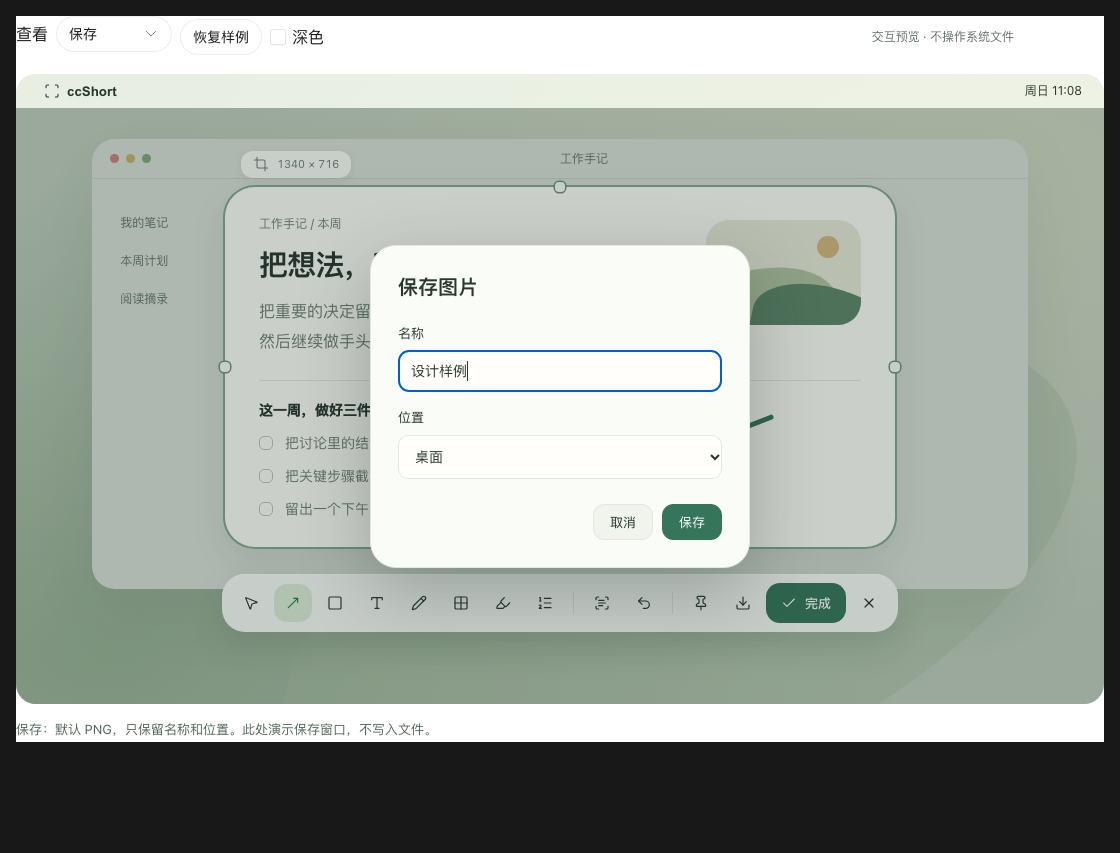
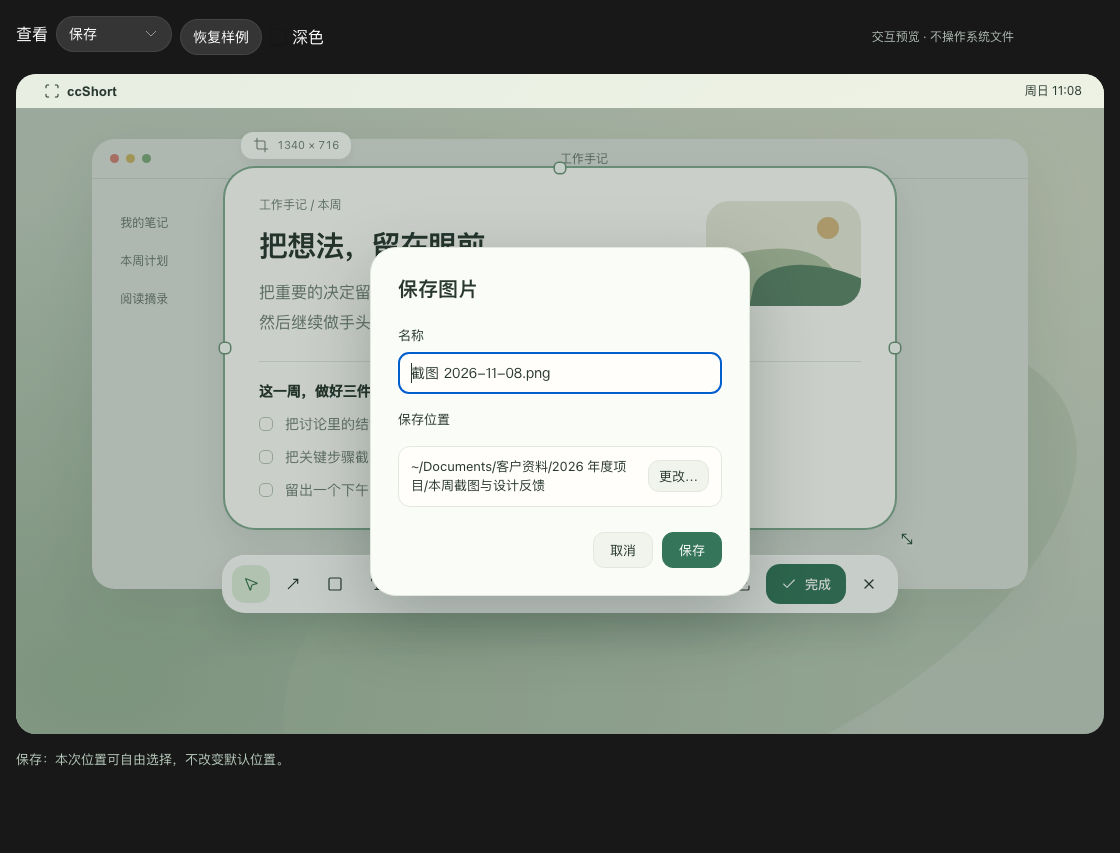
取消保存位置限制并区分本次与默认目录

diff --git a/docs/ui-v5/ccShort-完整交互预览.html b/docs/ui-v5/ccShort-完整交互预览.html
@@ -1968,6 +1968,10 @@ html&gt;body{padding:0}&lt;/style&gt;
 #ccshort-design .desktop:not([data-mode=&quot;edit&quot;]) .annotation-options{display:none}
 #ccshort-design .arrow-example{display:block;width:44px;height:28px}
 #ccshort-design .arrow-example svg{display:block;width:100%;height:100%}
+#ccshort-design .location-field{display:flex;align-items:center;gap:12px;padding:10px 12px;border:1px solid var(--hair);border-radius:12px;background:light-dark(#fffefb,#1e2c24)}
+#ccshort-design .location-field output{flex:1;min-width:0;overflow-wrap:anywhere;font-size:13px;color:var(--ink)}
+#ccshort-design .location-field button{flex:none;padding:6px 10px}
+#ccshort-design .folder-error{font-size:13px;color:light-dark(#a8362b,#ffb4a9);margin:8px 0}
 &lt;/style&gt;
 &lt;div id=&quot;ccshort-design&quot;&gt;
   &lt;div class=&quot;review-controls&quot; aria-label=&quot;设计稿状态&quot;&gt;
@@ -2022,7 +2026,7 @@ html&gt;body{padding:0}&lt;/style&gt;
     &lt;/div&gt;
     &lt;div class=&quot;pinbar&quot; hidden&gt;&lt;button data-action=&quot;edit&quot;&gt;&lt;i data-lucide=&quot;pencil&quot; aria-hidden=&quot;true&quot;&gt;&lt;/i&gt; 编辑&lt;/button&gt;&lt;button data-action=&quot;save&quot;&gt;&lt;i data-lucide=&quot;download&quot; aria-hidden=&quot;true&quot;&gt;&lt;/i&gt; 保存&lt;/button&gt;&lt;button data-action=&quot;close&quot; aria-label=&quot;关闭钉图&quot;&gt;&lt;i data-lucide=&quot;x&quot; aria-hidden=&quot;true&quot;&gt;&lt;/i&gt;&lt;/button&gt;&lt;/div&gt;
     &lt;div class=&quot;appmenu&quot; hidden&gt;&lt;button data-capture=&quot;区域截图&quot;&gt;区域截图 &lt;span&gt;⌃⌥S&lt;/span&gt;&lt;/button&gt;&lt;button data-capture=&quot;窗口截图&quot;&gt;窗口截图&lt;/button&gt;&lt;button data-capture=&quot;当前屏幕&quot;&gt;当前屏幕&lt;/button&gt;&lt;hr&gt;&lt;button data-action=&quot;settings&quot;&gt;设置…&lt;/button&gt;&lt;hr&gt;&lt;button data-action=&quot;quit&quot;&gt;退出 ccShort&lt;/button&gt;&lt;/div&gt;
-    &lt;div class=&quot;sheet-shade&quot; hidden&gt;&lt;section class=&quot;sheet&quot; role=&quot;dialog&quot; aria-modal=&quot;true&quot; aria-label=&quot;保存图片&quot;&gt;&lt;form data-save-form hidden&gt;&lt;h3&gt;保存图片&lt;/h3&gt;&lt;label&gt;名称&lt;input name=&quot;filename&quot; value=&quot;截图 2026-11-08.png&quot; required maxlength=&quot;80&quot;&gt;&lt;/label&gt;&lt;label&gt;位置&lt;select name=&quot;folder&quot;&gt;&lt;option&gt;桌面&lt;/option&gt;&lt;option&gt;下载&lt;/option&gt;&lt;option&gt;文稿&lt;/option&gt;&lt;/select&gt;&lt;/label&gt;&lt;div class=&quot;sheet-actions&quot;&gt;&lt;button type=&quot;button&quot; data-cancel&gt;取消&lt;/button&gt;&lt;button class=&quot;primary&quot; type=&quot;button&quot; data-save-confirm&gt;保存&lt;/button&gt;&lt;/div&gt;&lt;/form&gt;&lt;div data-settings-panel hidden&gt;&lt;h3&gt;设置&lt;/h3&gt;&lt;div class=&quot;setting-row&quot;&gt;&lt;span&gt;截图快捷键&lt;/span&gt;&lt;button data-shortcut&gt;⌃⌥S&lt;/button&gt;&lt;/div&gt;&lt;div class=&quot;setting-row&quot;&gt;&lt;label for=&quot;ccshort-folder&quot;&gt;默认保存位置&lt;/label&gt;&lt;select id=&quot;ccshort-folder&quot;&gt;&lt;option&gt;桌面&lt;/option&gt;&lt;option&gt;下载&lt;/option&gt;&lt;option&gt;文稿&lt;/option&gt;&lt;/select&gt;&lt;/div&gt;&lt;div class=&quot;sheet-actions&quot;&gt;&lt;button class=&quot;primary&quot; data-cancel&gt;完成&lt;/button&gt;&lt;/div&gt;&lt;/div&gt;&lt;/section&gt;&lt;/div&gt;
+    &lt;div class=&quot;sheet-shade&quot; hidden&gt;&lt;section class=&quot;sheet&quot; role=&quot;dialog&quot; aria-modal=&quot;true&quot; aria-label=&quot;保存图片&quot;&gt;&lt;form data-save-form hidden&gt;&lt;h3&gt;保存图片&lt;/h3&gt;&lt;label&gt;名称&lt;input name=&quot;filename&quot; value=&quot;截图 2026-11-08.png&quot; required maxlength=&quot;80&quot;&gt;&lt;/label&gt;&lt;label&gt;保存位置&lt;/label&gt;&lt;div class=&quot;location-field&quot;&gt;&lt;output data-save-folder aria-label=&quot;本次保存位置&quot;&gt;~/Desktop&lt;/output&gt;&lt;button type=&quot;button&quot; data-choose-folder=&quot;save&quot;&gt;更改…&lt;/button&gt;&lt;/div&gt;&lt;div class=&quot;sheet-actions&quot;&gt;&lt;button type=&quot;button&quot; data-cancel&gt;取消&lt;/button&gt;&lt;button class=&quot;primary&quot; type=&quot;button&quot; data-save-confirm&gt;保存&lt;/button&gt;&lt;/div&gt;&lt;/form&gt;&lt;div data-settings-panel hidden&gt;&lt;h3&gt;设置&lt;/h3&gt;&lt;div class=&quot;setting-row&quot;&gt;&lt;span&gt;截图快捷键&lt;/span&gt;&lt;button data-shortcut&gt;⌃⌥S&lt;/button&gt;&lt;/div&gt;&lt;div class=&quot;location-setting&quot;&gt;&lt;label&gt;默认保存位置&lt;/label&gt;&lt;div class=&quot;location-field&quot;&gt;&lt;output data-default-folder aria-label=&quot;默认保存位置&quot;&gt;~/Desktop&lt;/output&gt;&lt;button type=&quot;button&quot; data-choose-folder=&quot;settings&quot;&gt;更改…&lt;/button&gt;&lt;/div&gt;&lt;/div&gt;&lt;div class=&quot;sheet-actions&quot;&gt;&lt;button class=&quot;primary&quot; data-cancel&gt;完成&lt;/button&gt;&lt;/div&gt;&lt;/div&gt;&lt;div data-folder-panel hidden&gt;&lt;h3&gt;选择文件夹&lt;/h3&gt;&lt;label for=&quot;ccshort-folder-path&quot;&gt;文件夹路径&lt;/label&gt;&lt;input id=&quot;ccshort-folder-path&quot; placeholder=&quot;~/Documents/项目资料&quot; required aria-describedby=&quot;ccshort-folder-error&quot;&gt;&lt;p id=&quot;ccshort-folder-error&quot; class=&quot;folder-error&quot; role=&quot;alert&quot; hidden&gt;请输入文件夹路径&lt;/p&gt;&lt;div class=&quot;sheet-actions&quot;&gt;&lt;button type=&quot;button&quot; data-folder-cancel&gt;取消&lt;/button&gt;&lt;button type=&quot;button&quot; class=&quot;primary&quot; data-folder-confirm&gt;选择&lt;/button&gt;&lt;/div&gt;&lt;/div&gt;&lt;/section&gt;&lt;/div&gt;
     &lt;div class=&quot;result&quot; hidden&gt;&lt;i data-lucide=&quot;check&quot; aria-hidden=&quot;true&quot;&gt;&lt;/i&gt;&lt;h3&gt;已完成&lt;/h3&gt;&lt;p data-result&gt;&lt;/p&gt;&lt;blockquote hidden&gt;&lt;/blockquote&gt;&lt;button data-new&gt;再截一张&lt;/button&gt;&lt;/div&gt;
     &lt;div class=&quot;context-actions&quot; hidden aria-label=&quot;文字操作&quot;&gt;&lt;button data-copy&gt;复制 &lt;span&gt;⌘C&lt;/span&gt;&lt;/button&gt;&lt;button data-select-all&gt;全选 &lt;span&gt;⌘A&lt;/span&gt;&lt;/button&gt;&lt;/div&gt;
     &lt;div class=&quot;demo-toast&quot; role=&quot;status&quot;&gt;&lt;/div&gt;
@@ -2033,6 +2037,7 @@ html&gt;body{padding:0}&lt;/style&gt;
 (()=&gt;{
 const root=document.getElementById(&#x27;ccshort-design&#x27;),stage=root.querySelector(&#x27;.desktop&#x27;),svg=root.querySelector(&#x27;.drawing&#x27;),note=root.querySelector(&#x27;.note&#x27;),entry=root.querySelector(&#x27;.text-entry&#x27;),context=root.querySelector(&#x27;.context-actions&#x27;),appmenu=root.querySelector(&#x27;.appmenu&#x27;),shade=root.querySelector(&#x27;.sheet-shade&#x27;),finish=root.querySelector(&#x27;[data-finish]&#x27;),jump=root.querySelector(&#x27;[data-jump]&#x27;);
 const ns=&#x27;http://www.w3.org/2000/svg&#x27;;
+let defaultFolder=&#x27;~/Desktop&#x27;,saveFolder=defaultFolder,folderTarget=&#x27;save&#x27;;
 const presets={arrow:{color:&#x27;#D65F46&#x27;,shape:&#x27;curved&#x27;},rect:{color:&#x27;#D65F46&#x27;}};
 const options=root.querySelector(&#x27;.annotation-options&#x27;);
 const names={capture:&#x27;框选&#x27;,arrow:&#x27;箭头&#x27;,rect:&#x27;画框&#x27;,label:&#x27;文字&#x27;,pen:&#x27;画笔&#x27;,mask:&#x27;遮挡&#x27;,highlight:&#x27;高亮&#x27;,number:&#x27;序号&#x27;,select:&#x27;选字&#x27;};
@@ -2079,8 +2084,8 @@ function selectAll(){const range=document.createRange();range.selectNodeContents
 function demo(kind){const a={x:440,y:219},b={x:391,y:290};if(kind===&#x27;arrow&#x27;)return[{kind,a:{x:546,y:230},b}];if(kind===&#x27;rect&#x27;||kind===&#x27;mask&#x27;||kind===&#x27;highlight&#x27;)return[{kind,a:{x:53,y:274},b:{x:382,y:305}}];if(kind===&#x27;pen&#x27;)return[{kind,points:[{x:62,y:302},{x:90,y:308},{x:120,y:301},{x:151,y:307},{x:185,y:302},{x:218,y:307},{x:253,y:300},{x:285,y:305},{x:327,y:300}]}];if(kind===&#x27;number&#x27;)return[{kind,a:{x:19,y:257},number:1},{kind,a:{x:19,y:289},number:2},{kind,a:{x:19,y:322},number:3}];return[];}
 function normal(){clearTimeout(timer);root.querySelector(&#x27;.demo-toast&#x27;).textContent=&#x27;&#x27;;stage.dataset.mode=&#x27;edit&#x27;;root.querySelector(&#x27;.pinbar&#x27;).hidden=true;root.querySelector(&#x27;.result&#x27;).hidden=true;shade.hidden=true;appmenu.hidden=true;context.hidden=true;}
 function choose(name){commitText();normal();tool=name;stage.dataset.tool=tool;clearSelection();jump.value=tool;root.querySelectorAll(&#x27;[data-tool]&#x27;).forEach(b=&gt;{const on=b.dataset.tool===tool;b.classList.toggle(&#x27;active&#x27;,on);b.setAttribute(&#x27;aria-pressed&#x27;,String(on));});if(sample){marks=demo(tool).map(withStyle);history=[];redo=[];}syncOptions();paint();setHint(hints[tool]);if(tool===&#x27;label&#x27;)openText({x:407,y:218});if(tool===&#x27;select&#x27;){const range=document.createRange();range.selectNodeContents(root.querySelector(&#x27;.intro&#x27;));const sel=getSelection();sel.removeAllRanges();sel.addRange(range);selected=root.querySelector(&#x27;.intro&#x27;).innerText.trim();syncFinish();}}
-function showSheet(which){clearTimeout(timer);root.querySelector(&#x27;.demo-toast&#x27;).textContent=&#x27;&#x27;;commitText();context.hidden=true;appmenu.hidden=true;lastFocus=document.activeElement;shade.hidden=false;root.querySelector(&#x27;[data-save-form]&#x27;).hidden=which!==&#x27;save&#x27;;root.querySelector(&#x27;[data-settings-panel]&#x27;).hidden=which!==&#x27;settings&#x27;;root.querySelector(&#x27;.sheet&#x27;).setAttribute(&#x27;aria-label&#x27;,which===&#x27;save&#x27;?&#x27;保存图片&#x27;:&#x27;设置&#x27;);jump.value=which;setHint(which===&#x27;save&#x27;?&#x27;保存：默认 PNG，只保留名称和位置。此处演示保存窗口，不写入文件。&#x27;:&#x27;设置：仅保留截图快捷键和默认保存位置。此处修改只作用于预览。&#x27;);requestAnimationFrame(()=&gt;shade.querySelector(which===&#x27;save&#x27;?&#x27;input&#x27;:&#x27;button&#x27;).focus());}
-function closeSheet(){shade.hidden=true;recording=false;root.querySelector(&#x27;[data-shortcut]&#x27;).textContent=root.dataset.shortcut||&#x27;⌃⌥S&#x27;;lastFocus?.focus();}
+function showSheet(which){root.querySelector(&#x27;[data-folder-panel]&#x27;).hidden=true;if(which===&#x27;save&#x27;)saveFolder=defaultFolder;renderFolders();clearTimeout(timer);root.querySelector(&#x27;.demo-toast&#x27;).textContent=&#x27;&#x27;;commitText();context.hidden=true;appmenu.hidden=true;lastFocus=document.activeElement;shade.hidden=false;root.querySelector(&#x27;[data-save-form]&#x27;).hidden=which!==&#x27;save&#x27;;root.querySelector(&#x27;[data-settings-panel]&#x27;).hidden=which!==&#x27;settings&#x27;;root.querySelector(&#x27;.sheet&#x27;).setAttribute(&#x27;aria-label&#x27;,which===&#x27;save&#x27;?&#x27;保存图片&#x27;:&#x27;设置&#x27;);jump.value=which;setHint(which===&#x27;save&#x27;?&#x27;保存：位置可自由选择；本次更改不修改默认位置。此处仅演示，不写入文件。&#x27;:&#x27;设置：仅保留截图快捷键和默认保存位置。此处修改只作用于预览。&#x27;);requestAnimationFrame(()=&gt;shade.querySelector(which===&#x27;save&#x27;?&#x27;[data-save-form] input&#x27;:&#x27;[data-settings-panel] button&#x27;).focus());}
+function closeSheet(){if(!root.querySelector(&#x27;[data-folder-panel]&#x27;).hidden){returnFromFolder();return;}shade.hidden=true;recording=false;root.querySelector(&#x27;[data-shortcut]&#x27;).textContent=root.dataset.shortcut||&#x27;⌃⌥S&#x27;;lastFocus?.focus();}
 function pin(){commitText();normal();clearSelection();stage.dataset.mode=&#x27;pin&#x27;;root.querySelector(&#x27;.pinbar&#x27;).hidden=false;jump.value=&#x27;pin&#x27;;setHint(&#x27;钉图：图片独立悬浮，只保留编辑、保存和关闭。&#x27;);}
 function complete(cancel=false){commitText();context.hidden=true;appmenu.hidden=true;shade.hidden=true;stage.dataset.mode=&#x27;done&#x27;;root.querySelector(&#x27;.pinbar&#x27;).hidden=true;const result=root.querySelector(&#x27;.result&#x27;);result.hidden=false;result.querySelector(&#x27;h3&#x27;).textContent=cancel?&#x27;已取消&#x27;:&#x27;已完成&#x27;;root.querySelector(&#x27;[data-result]&#x27;).textContent=cancel?&#x27;本次截图已收起&#x27;:selected?&#x27;已复制所选文字&#x27;:&#x27;已复制图片&#x27;;const quote=result.querySelector(&#x27;blockquote&#x27;);quote.hidden=cancel||!selected;quote.textContent=selected;jump.value=&#x27;done&#x27;;setHint(cancel?&#x27;结束状态演示：取消不复制。&#x27;:&#x27;完成状态演示：只复制当前目标，然后结束；预览不写入系统剪贴板。&#x27;);}
 function copy(){toast(&#x27;演示：已复制&#x27;+(selected?&#x27;所选文字&#x27;:&#x27;图片&#x27;)+&#x27;，继续编辑&#x27;);context.hidden=true;}
@@ -2093,11 +2098,17 @@ root.querySelector(&#x27;[data-appmenu]&#x27;).addEventListener(&#x27;click&#x27
 root.querySelectorAll(&#x27;[data-capture]&#x27;).forEach(b=&gt;b.addEventListener(&#x27;click&#x27;,()=&gt;{reset();toast(&#x27;演示：&#x27;+b.dataset.capture+&#x27;，使用当前样例&#x27;);}));
 jump.addEventListener(&#x27;change&#x27;,()=&gt;{const v=jump.value;if(names[v]){entry.hidden=true;marks=[];history=[];redo=[];sample=true;choose(v);}else if(v===&#x27;pin&#x27;)pin();else if(v===&#x27;done&#x27;)complete();else if(v===&#x27;appmenu&#x27;)root.querySelector(&#x27;[data-appmenu]&#x27;).click();else showSheet(v);});
 root.querySelectorAll(&#x27;[data-cancel]&#x27;).forEach(b=&gt;b.addEventListener(&#x27;click&#x27;,closeSheet));
-function savePreview(){const form=root.querySelector(&#x27;[data-save-form]&#x27;);if(!form.reportValidity())return;const data=new FormData(form);let name=String(data.get(&#x27;filename&#x27;)).trim();if(!name){form.elements.filename.focus();return;}if(!name.toLowerCase().endsWith(&#x27;.png&#x27;))name+=&#x27;.png&#x27;;const folder=String(data.get(&#x27;folder&#x27;));closeSheet();toast(&#x27;演示：保存到&#x27;+folder+&#x27; / &#x27;+name);}
+function savePreview(){const form=root.querySelector(&#x27;[data-save-form]&#x27;);if(!form.reportValidity())return;const data=new FormData(form);let name=String(data.get(&#x27;filename&#x27;)).trim();if(!name){form.elements.filename.focus();return;}if(!name.toLowerCase().endsWith(&#x27;.png&#x27;))name+=&#x27;.png&#x27;;const folder=saveFolder;closeSheet();toast(&#x27;演示：保存到&#x27;+folder+&#x27; / &#x27;+name);}
 root.querySelector(&#x27;[data-save-confirm]&#x27;).addEventListener(&#x27;click&#x27;,savePreview);
 root.querySelector(&#x27;[data-save-form]&#x27;).addEventListener(&#x27;submit&#x27;,e=&gt;{e.preventDefault();savePreview();});
-root.querySelector(&#x27;[data-save-form]&#x27;).addEventListener(&#x27;keydown&#x27;,e=&gt;{if(e.key===&#x27;Enter&#x27;){e.preventDefault();e.stopPropagation();savePreview();}});
-root.querySelector(&#x27;#ccshort-folder&#x27;).addEventListener(&#x27;change&#x27;,e=&gt;root.querySelector(&#x27;[name=&quot;folder&quot;]&#x27;).value=e.target.value);
+root.querySelector(&#x27;[data-save-form]&#x27;).addEventListener(&#x27;keydown&#x27;,e=&gt;{if(e.key===&#x27;Enter&#x27;&amp;&amp;e.target.matches(&#x27;input[name=&quot;filename&quot;]&#x27;)){e.preventDefault();e.stopPropagation();savePreview();}});
+function renderFolders(){root.querySelector(&#x27;[data-save-folder]&#x27;).textContent=saveFolder;root.querySelector(&#x27;[data-default-folder]&#x27;).textContent=defaultFolder;}
+function returnFromFolder(){root.querySelector(&#x27;[data-folder-panel]&#x27;).hidden=true;root.querySelector(&#x27;[data-save-form]&#x27;).hidden=folderTarget!==&#x27;save&#x27;;root.querySelector(&#x27;[data-settings-panel]&#x27;).hidden=folderTarget!==&#x27;settings&#x27;;root.querySelector(&#x27;.sheet&#x27;).setAttribute(&#x27;aria-label&#x27;,folderTarget===&#x27;save&#x27;?&#x27;保存图片&#x27;:&#x27;设置&#x27;);setHint(folderTarget===&#x27;save&#x27;?&#x27;保存：本次位置可自由选择，不改变默认位置。&#x27;:&#x27;设置：以后保存时从这里选定的默认位置开始。&#x27;);root.querySelector(&#x27;[data-choose-folder=&quot;&#x27;+folderTarget+&#x27;&quot;]&#x27;).focus();}
+root.querySelectorAll(&#x27;[data-choose-folder]&#x27;).forEach(button=&gt;button.addEventListener(&#x27;click&#x27;,()=&gt;{folderTarget=button.dataset.chooseFolder;root.querySelector(&#x27;[data-save-form]&#x27;).hidden=true;root.querySelector(&#x27;[data-settings-panel]&#x27;).hidden=true;root.querySelector(&#x27;[data-folder-panel]&#x27;).hidden=false;root.querySelector(&#x27;.sheet&#x27;).setAttribute(&#x27;aria-label&#x27;,&#x27;选择文件夹&#x27;);root.querySelector(&#x27;#ccshort-folder-error&#x27;).hidden=true;const input=root.querySelector(&#x27;#ccshort-folder-path&#x27;);input.value=folderTarget===&#x27;save&#x27;?saveFolder:defaultFolder;input.setAttribute(&#x27;aria-invalid&#x27;,&#x27;false&#x27;);input.focus();input.select();setHint(&#x27;文件夹选择演示：可输入任意路径；正式 App 使用系统选择器浏览文件夹，不限三个位置。&#x27;);}));
+root.querySelector(&#x27;[data-folder-cancel]&#x27;).addEventListener(&#x27;click&#x27;,returnFromFolder);
+function confirmFolder(){const input=root.querySelector(&#x27;#ccshort-folder-path&#x27;),value=input.value.trim();if(!value){root.querySelector(&#x27;#ccshort-folder-error&#x27;).hidden=false;input.setAttribute(&#x27;aria-invalid&#x27;,&#x27;true&#x27;);input.focus();return;}if(folderTarget===&#x27;save&#x27;)saveFolder=value;else defaultFolder=value;renderFolders();returnFromFolder();}
+root.querySelector(&#x27;[data-folder-confirm]&#x27;).addEventListener(&#x27;click&#x27;,confirmFolder);
+root.querySelector(&#x27;#ccshort-folder-path&#x27;).addEventListener(&#x27;keydown&#x27;,e=&gt;{if(e.key===&#x27;Enter&#x27;){e.preventDefault();e.stopPropagation();confirmFolder();}if(e.key===&#x27;Escape&#x27;){e.preventDefault();e.stopPropagation();returnFromFolder();}});
 root.querySelector(&#x27;[data-shortcut]&#x27;).addEventListener(&#x27;click&#x27;,e=&gt;{recording=true;e.target.textContent=&#x27;请按快捷键&#x27;;});
 function point(e){const r=svg.getBoundingClientRect();return{x:Math.max(0,Math.min(670,(e.clientX-r.left)/r.width*670)),y:Math.max(0,Math.min(360,(e.clientY-r.top)/r.height*360))};}
 svg.addEventListener(&#x27;pointerdown&#x27;,e=&gt;{if(stage.dataset.mode===&#x27;pin&#x27;||!shade.hidden)return;if(!names[tool]||[&#x27;select&#x27;,&#x27;capture&#x27;].includes(tool))return;e.preventDefault();context.hidden=true;const p=point(e);if(tool===&#x27;label&#x27;){openText(p);return;}if(tool===&#x27;number&#x27;){append({kind:&#x27;number&#x27;,a:p,number:sample?1:marks.filter(m=&gt;m.kind===&#x27;number&#x27;).length+1});return;}svg.setPointerCapture(e.pointerId);drag=p;draft=withStyle(tool===&#x27;pen&#x27;?{kind:tool,points:[p]}:{kind:tool,a:p,b:p});if(sample){marks=[];sample=false;}paint();});

diff --git a/docs/ui-v5/交互预览.html b/docs/ui-v5/交互预览.html
@@ -123,6 +123,10 @@
 #ccshort-design .desktop:not([data-mode="edit"]) .annotation-options{display:none}
 #ccshort-design .arrow-example{display:block;width:44px;height:28px}
 #ccshort-design .arrow-example svg{display:block;width:100%;height:100%}
+#ccshort-design .location-field{display:flex;align-items:center;gap:12px;padding:10px 12px;border:1px solid var(--hair);border-radius:12px;background:light-dark(#fffefb,#1e2c24)}
+#ccshort-design .location-field output{flex:1;min-width:0;overflow-wrap:anywhere;font-size:13px;color:var(--ink)}
+#ccshort-design .location-field button{flex:none;padding:6px 10px}
+#ccshort-design .folder-error{font-size:13px;color:light-dark(#a8362b,#ffb4a9);margin:8px 0}
 </style>
 <div id="ccshort-design">
   <div class="review-controls" aria-label="设计稿状态">
@@ -177,7 +181,7 @@
     </div>
     <div class="pinbar" hidden><button data-action="edit"><i data-lucide="pencil" aria-hidden="true"></i> 编辑</button><button data-action="save"><i data-lucide="download" aria-hidden="true"></i> 保存</button><button data-action="close" aria-label="关闭钉图"><i data-lucide="x" aria-hidden="true"></i></button></div>
     <div class="appmenu" hidden><button data-capture="区域截图">区域截图 <span>⌃⌥S</span></button><button data-capture="窗口截图">窗口截图</button><button data-capture="当前屏幕">当前屏幕</button><hr><button data-action="settings">设置…</button><hr><button data-action="quit">退出 ccShort</button></div>
-    <div class="sheet-shade" hidden><section class="sheet" role="dialog" aria-modal="true" aria-label="保存图片"><form data-save-form hidden><h3>保存图片</h3><label>名称<input name="filename" value="截图 2026-11-08.png" required maxlength="80"></label><label>位置<select name="folder"><option>桌面</option><option>下载</option><option>文稿</option></select></label><div class="sheet-actions"><button type="button" data-cancel>取消</button><button class="primary" type="button" data-save-confirm>保存</button></div></form><div data-settings-panel hidden><h3>设置</h3><div class="setting-row"><span>截图快捷键</span><button data-shortcut>⌃⌥S</button></div><div class="setting-row"><label for="ccshort-folder">默认保存位置</label><select id="ccshort-folder"><option>桌面</option><option>下载</option><option>文稿</option></select></div><div class="sheet-actions"><button class="primary" data-cancel>完成</button></div></div></section></div>
+    <div class="sheet-shade" hidden><section class="sheet" role="dialog" aria-modal="true" aria-label="保存图片"><form data-save-form hidden><h3>保存图片</h3><label>名称<input name="filename" value="截图 2026-11-08.png" required maxlength="80"></label><label>保存位置</label><div class="location-field"><output data-save-folder aria-label="本次保存位置">~/Desktop</output><button type="button" data-choose-folder="save">更改…</button></div><div class="sheet-actions"><button type="button" data-cancel>取消</button><button class="primary" type="button" data-save-confirm>保存</button></div></form><div data-settings-panel hidden><h3>设置</h3><div class="setting-row"><span>截图快捷键</span><button data-shortcut>⌃⌥S</button></div><div class="location-setting"><label>默认保存位置</label><div class="location-field"><output data-default-folder aria-label="默认保存位置">~/Desktop</output><button type="button" data-choose-folder="settings">更改…</button></div></div><div class="sheet-actions"><button class="primary" data-cancel>完成</button></div></div><div data-folder-panel hidden><h3>选择文件夹</h3><label for="ccshort-folder-path">文件夹路径</label><input id="ccshort-folder-path" placeholder="~/Documents/项目资料" required aria-describedby="ccshort-folder-error"><p id="ccshort-folder-error" class="folder-error" role="alert" hidden>请输入文件夹路径</p><div class="sheet-actions"><button type="button" data-folder-cancel>取消</button><button type="button" class="primary" data-folder-confirm>选择</button></div></div></section></div>
     <div class="result" hidden><i data-lucide="check" aria-hidden="true"></i><h3>已完成</h3><p data-result></p><blockquote hidden></blockquote><button data-new>再截一张</button></div>
     <div class="context-actions" hidden aria-label="文字操作"><button data-copy>复制 <span>⌘C</span></button><button data-select-all>全选 <span>⌘A</span></button></div>
     <div class="demo-toast" role="status"></div>
@@ -188,6 +192,7 @@
 (()=>{
 const root=document.getElementById('ccshort-design'),stage=root.querySelector('.desktop'),svg=root.querySelector('.drawing'),note=root.querySelector('.note'),entry=root.querySelector('.text-entry'),context=root.querySelector('.context-actions'),appmenu=root.querySelector('.appmenu'),shade=root.querySelector('.sheet-shade'),finish=root.querySelector('[data-finish]'),jump=root.querySelector('[data-jump]');
 const ns='http://www.w3.org/2000/svg';
+let defaultFolder='~/Desktop',saveFolder=defaultFolder,folderTarget='save';
 const presets={arrow:{color:'#D65F46',shape:'curved'},rect:{color:'#D65F46'}};
 const options=root.querySelector('.annotation-options');
 const names={capture:'框选',arrow:'箭头',rect:'画框',label:'文字',pen:'画笔',mask:'遮挡',highlight:'高亮',number:'序号',select:'选字'};
@@ -234,8 +239,8 @@ function selectAll(){const range=document.createRange();range.selectNodeContents
 function demo(kind){const a={x:440,y:219},b={x:391,y:290};if(kind==='arrow')return[{kind,a:{x:546,y:230},b}];if(kind==='rect'||kind==='mask'||kind==='highlight')return[{kind,a:{x:53,y:274},b:{x:382,y:305}}];if(kind==='pen')return[{kind,points:[{x:62,y:302},{x:90,y:308},{x:120,y:301},{x:151,y:307},{x:185,y:302},{x:218,y:307},{x:253,y:300},{x:285,y:305},{x:327,y:300}]}];if(kind==='number')return[{kind,a:{x:19,y:257},number:1},{kind,a:{x:19,y:289},number:2},{kind,a:{x:19,y:322},number:3}];return[];}
 function normal(){clearTimeout(timer);root.querySelector('.demo-toast').textContent='';stage.dataset.mode='edit';root.querySelector('.pinbar').hidden=true;root.querySelector('.result').hidden=true;shade.hidden=true;appmenu.hidden=true;context.hidden=true;}
 function choose(name){commitText();normal();tool=name;stage.dataset.tool=tool;clearSelection();jump.value=tool;root.querySelectorAll('[data-tool]').forEach(b=>{const on=b.dataset.tool===tool;b.classList.toggle('active',on);b.setAttribute('aria-pressed',String(on));});if(sample){marks=demo(tool).map(withStyle);history=[];redo=[];}syncOptions();paint();setHint(hints[tool]);if(tool==='label')openText({x:407,y:218});if(tool==='select'){const range=document.createRange();range.selectNodeContents(root.querySelector('.intro'));const sel=getSelection();sel.removeAllRanges();sel.addRange(range);selected=root.querySelector('.intro').innerText.trim();syncFinish();}}
-function showSheet(which){clearTimeout(timer);root.querySelector('.demo-toast').textContent='';commitText();context.hidden=true;appmenu.hidden=true;lastFocus=document.activeElement;shade.hidden=false;root.querySelector('[data-save-form]').hidden=which!=='save';root.querySelector('[data-settings-panel]').hidden=which!=='settings';root.querySelector('.sheet').setAttribute('aria-label',which==='save'?'保存图片':'设置');jump.value=which;setHint(which==='save'?'保存：默认 PNG，只保留名称和位置。此处演示保存窗口，不写入文件。':'设置：仅保留截图快捷键和默认保存位置。此处修改只作用于预览。');requestAnimationFrame(()=>shade.querySelector(which==='save'?'input':'button').focus());}
-function closeSheet(){shade.hidden=true;recording=false;root.querySelector('[data-shortcut]').textContent=root.dataset.shortcut||'⌃⌥S';lastFocus?.focus();}
+function showSheet(which){root.querySelector('[data-folder-panel]').hidden=true;if(which==='save')saveFolder=defaultFolder;renderFolders();clearTimeout(timer);root.querySelector('.demo-toast').textContent='';commitText();context.hidden=true;appmenu.hidden=true;lastFocus=document.activeElement;shade.hidden=false;root.querySelector('[data-save-form]').hidden=which!=='save';root.querySelector('[data-settings-panel]').hidden=which!=='settings';root.querySelector('.sheet').setAttribute('aria-label',which==='save'?'保存图片':'设置');jump.value=which;setHint(which==='save'?'保存：位置可自由选择；本次更改不修改默认位置。此处仅演示，不写入文件。':'设置：仅保留截图快捷键和默认保存位置。此处修改只作用于预览。');requestAnimationFrame(()=>shade.querySelector(which==='save'?'[data-save-form] input':'[data-settings-panel] button').focus());}
+function closeSheet(){if(!root.querySelector('[data-folder-panel]').hidden){returnFromFolder();return;}shade.hidden=true;recording=false;root.querySelector('[data-shortcut]').textContent=root.dataset.shortcut||'⌃⌥S';lastFocus?.focus();}
 function pin(){commitText();normal();clearSelection();stage.dataset.mode='pin';root.querySelector('.pinbar').hidden=false;jump.value='pin';setHint('钉图：图片独立悬浮，只保留编辑、保存和关闭。');}
 function complete(cancel=false){commitText();context.hidden=true;appmenu.hidden=true;shade.hidden=true;stage.dataset.mode='done';root.querySelector('.pinbar').hidden=true;const result=root.querySelector('.result');result.hidden=false;result.querySelector('h3').textContent=cancel?'已取消':'已完成';root.querySelector('[data-result]').textContent=cancel?'本次截图已收起':selected?'已复制所选文字':'已复制图片';const quote=result.querySelector('blockquote');quote.hidden=cancel||!selected;quote.textContent=selected;jump.value='done';setHint(cancel?'结束状态演示：取消不复制。':'完成状态演示：只复制当前目标，然后结束；预览不写入系统剪贴板。');}
 function copy(){toast('演示：已复制'+(selected?'所选文字':'图片')+'，继续编辑');context.hidden=true;}
@@ -248,11 +253,17 @@ root.querySelector('[data-appmenu]').addEventListener('click',()=>{appmenu.hidde
 root.querySelectorAll('[data-capture]').forEach(b=>b.addEventListener('click',()=>{reset();toast('演示：'+b.dataset.capture+'，使用当前样例');}));
 jump.addEventListener('change',()=>{const v=jump.value;if(names[v]){entry.hidden=true;marks=[];history=[];redo=[];sample=true;choose(v);}else if(v==='pin')pin();else if(v==='done')complete();else if(v==='appmenu')root.querySelector('[data-appmenu]').click();else showSheet(v);});
 root.querySelectorAll('[data-cancel]').forEach(b=>b.addEventListener('click',closeSheet));
-function savePreview(){const form=root.querySelector('[data-save-form]');if(!form.reportValidity())return;const data=new FormData(form);let name=String(data.get('filename')).trim();if(!name){form.elements.filename.focus();return;}if(!name.toLowerCase().endsWith('.png'))name+='.png';const folder=String(data.get('folder'));closeSheet();toast('演示：保存到'+folder+' / '+name);}
+function savePreview(){const form=root.querySelector('[data-save-form]');if(!form.reportValidity())return;const data=new FormData(form);let name=String(data.get('filename')).trim();if(!name){form.elements.filename.focus();return;}if(!name.toLowerCase().endsWith('.png'))name+='.png';const folder=saveFolder;closeSheet();toast('演示：保存到'+folder+' / '+name);}
 root.querySelector('[data-save-confirm]').addEventListener('click',savePreview);
 root.querySelector('[data-save-form]').addEventListener('submit',e=>{e.preventDefault();savePreview();});
-root.querySelector('[data-save-form]').addEventListener('keydown',e=>{if(e.key==='Enter'){e.preventDefault();e.stopPropagation();savePreview();}});
-root.querySelector('#ccshort-folder').addEventListener('change',e=>root.querySelector('[name="folder"]').value=e.target.value);
+root.querySelector('[data-save-form]').addEventListener('keydown',e=>{if(e.key==='Enter'&&e.target.matches('input[name="filename"]')){e.preventDefault();e.stopPropagation();savePreview();}});
+function renderFolders(){root.querySelector('[data-save-folder]').textContent=saveFolder;root.querySelector('[data-default-folder]').textContent=defaultFolder;}
+function returnFromFolder(){root.querySelector('[data-folder-panel]').hidden=true;root.querySelector('[data-save-form]').hidden=folderTarget!=='save';root.querySelector('[data-settings-panel]').hidden=folderTarget!=='settings';root.querySelector('.sheet').setAttribute('aria-label',folderTarget==='save'?'保存图片':'设置');setHint(folderTarget==='save'?'保存：本次位置可自由选择，不改变默认位置。':'设置：以后保存时从这里选定的默认位置开始。');root.querySelector('[data-choose-folder="'+folderTarget+'"]').focus();}
+root.querySelectorAll('[data-choose-folder]').forEach(button=>button.addEventListener('click',()=>{folderTarget=button.dataset.chooseFolder;root.querySelector('[data-save-form]').hidden=true;root.querySelector('[data-settings-panel]').hidden=true;root.querySelector('[data-folder-panel]').hidden=false;root.querySelector('.sheet').setAttribute('aria-label','选择文件夹');root.querySelector('#ccshort-folder-error').hidden=true;const input=root.querySelector('#ccshort-folder-path');input.value=folderTarget==='save'?saveFolder:defaultFolder;input.setAttribute('aria-invalid','false');input.focus();input.select();setHint('文件夹选择演示：可输入任意路径；正式 App 使用系统选择器浏览文件夹，不限三个位置。');}));
+root.querySelector('[data-folder-cancel]').addEventListener('click',returnFromFolder);
+function confirmFolder(){const input=root.querySelector('#ccshort-folder-path'),value=input.value.trim();if(!value){root.querySelector('#ccshort-folder-error').hidden=false;input.setAttribute('aria-invalid','true');input.focus();return;}if(folderTarget==='save')saveFolder=value;else defaultFolder=value;renderFolders();returnFromFolder();}
+root.querySelector('[data-folder-confirm]').addEventListener('click',confirmFolder);
+root.querySelector('#ccshort-folder-path').addEventListener('keydown',e=>{if(e.key==='Enter'){e.preventDefault();e.stopPropagation();confirmFolder();}if(e.key==='Escape'){e.preventDefault();e.stopPropagation();returnFromFolder();}});
 root.querySelector('[data-shortcut]').addEventListener('click',e=>{recording=true;e.target.textContent='请按快捷键';});
 function point(e){const r=svg.getBoundingClientRect();return{x:Math.max(0,Math.min(670,(e.clientX-r.left)/r.width*670)),y:Math.max(0,Math.min(360,(e.clientY-r.top)/r.height*360))};}
 svg.addEventListener('pointerdown',e=>{if(stage.dataset.mode==='pin'||!shade.hidden)return;if(!names[tool]||['select','capture'].includes(tool))return;e.preventDefault();context.hidden=true;const p=point(e);if(tool==='label'){openText(p);return;}if(tool==='number'){append({kind:'number',a:p,number:sample?1:marks.filter(m=>m.kind==='number').length+1});return;}svg.setPointerCapture(e.pointerId);drag=p;draft=withStyle(tool==='pen'?{kind:tool,points:[p]}:{kind:tool,a:p,b:p});if(sample){marks=[];sample=false;}paint();});

diff --git a/docs/ui-v5/README.md b/docs/ui-v5/README.md
@@ -13,7 +13,7 @@
 - 文字在画面内直接输入，回车确认；撤销支持回退标注，快捷键也支持重做。
 - 框选四边控制点可以调整样例外观尺寸；这是排版示意，不是真实屏幕裁剪。
 - 选字使用样例 DOM 的实际文字选择，右键显示复制/全选；完成按当前选字状态展示文字或图片输出结果。没有调用 OCR 或系统剪贴板。
-- 保存展开名称和位置，默认 PNG；设置只有截图快捷键和默认保存位置。设置值只作用于演示。
+- 保存展开名称和当前路径，默认 PNG；通过“更改…”自由选择位置，预览中用输入路径模拟。设置只有截图快捷键和默认保存位置，本次保存位置不覆盖默认位置。设置值只作用于演示。
 - 钉图切换到无边界控制点的图片浮窗，仅留编辑、保存和关闭；完成与取消可回到“再截一张”。
 
 审稿导航、深色开关和画面下的交互说明是预览辅助，不进入正式产品。菜单栏的三个截图入口复用同一自制笔记，未进行真实系统截图。保存、复制、退出是明确的演示结果，不操作系统文件、剪贴板或 App；钉图不创建系统置顶窗口。选字不能证明 OCR、遮挡后的安全识字或原生快捷键已验收。
@@ -39,3 +39,5 @@
 离线重载后 16 项原交互回归和 15 项新增检查通过，覆盖三色切换、直曲切换、各工具面板范围、状态收起、会话选择保留、面板完整位于画布内与实线。实际指针拖动生成曲线箭头。已查看浅色箭头/画框、深色箭头截图；未改动原生 App。
 
 箭头形态按钮已按用户要求改为实际路径样例，不显示“直线/曲线”文字；默认曲线，名称通过悬停与可访问标签提供。样例与画布复用同一绘制函数。已检查无可见文字、默认选中与两种切换。
+
+保存位置修订已通过 11 项浏览器检查，覆盖自由路径、空值、取消、Esc 返回、默认位置独立与后续保存采用默认值；查看长路径的保存窗口，无横向溢出。

diff --git a/docs/PRD.md b/docs/PRD.md
@@ -374,3 +374,9 @@ DeepSeek 旧模型名 `deepseek-chat` 和 `deepseek-reasoner` 已在 2026-07-24 
 当前 HTML 提案采用珊瑚橙为默认，提供琥珀黄与晴空蓝两个备选；具体色值为设计提案，尚非用户最终定稿。箭头面板为三个色点加直线/曲线，画框仅三个色点。本轮仍只更新设计预览，未修改原生 App。
 
 用户进一步确认：直线/曲线切换用真实箭头样例替代按钮文字，默认选中曲线；名称仅保留在悬停提示和可访问标签中。
+
+### 2026-11-08 · 保存位置自由选择
+
+保存位置不限制为桌面、下载、文稿三个选项。保存窗口显示当前路径与“更改…”入口，正式 App 使用系统文件选择界面浏览有写入权限的任意文件夹；设置页可更改默认保存位置。本次保存的临时改动不覆盖默认位置。
+
+HTML 已展示以上流程，用路径输入模拟文件夹选择，支持取消与空值提示；仅在页面会话内生效，不验证文件夹存在性或权限，不写入实际文件，原生 App 尚未更新。

diff --git a/docs/决策记录.md b/docs/决策记录.md
@@ -59,3 +59,9 @@
 当前 HTML 提案采用珊瑚橙为默认，提供琥珀黄与晴空蓝两个备选；具体色值为设计提案，尚非用户最终定稿。箭头面板为三个色点加直线/曲线，画框仅三个色点。本轮仍只更新设计预览，未修改原生 App。
 
 用户进一步确认：直线/曲线切换用真实箭头样例替代按钮文字，默认选中曲线；名称仅保留在悬停提示和可访问标签中。
+
+### 2026-11-08 · 保存位置自由选择
+
+保存位置不限制为桌面、下载、文稿三个选项。保存窗口显示当前路径与“更改…”入口，正式 App 使用系统文件选择界面浏览有写入权限的任意文件夹；设置页可更改默认保存位置。本次保存的临时改动不覆盖默认位置。
+
+HTML 已展示以上流程，用路径输入模拟文件夹选择，支持取消与空值提示；仅在页面会话内生效，不验证文件夹存在性或权限，不写入实际文件，原生 App 尚未更新。

diff --git a/归档事项/2026-11-08-绿色圆润三状态设计稿.md b/归档事项/2026-11-08-绿色圆润三状态设计稿.md
@@ -25,3 +25,7 @@
 按最新要求恢复箭头/画框的精简调色面板，默认珊瑚橙；箭头只保留直线/曲线并默认曲线，线宽与圆角预设。同步片段、离线 HTML、截图、PRD 与决策记录。16 项回归及 15 项新增浏览器检查通过，实际拖画生成曲线，已查看浅深代表画面；未修改原生 App。
 
 箭头形态按钮改为真实直线/曲线路径样例，默认曲线；同步片段、独立 HTML 与浅深截图，四项直接交互检查通过。未修改原生 App。
+
+## 保存位置修订
+
+去掉三个固定位置，保存与设置均显示路径和“更改…”入口。HTML 用路径输入演示任意文件夹，区分本次保存与默认位置。11 项浏览器直接检查通过，查看长路径窗口并更新截图；未写入实际截图文件，未修改原生 App。同步需求和决策记录。

diff --git a/归档事项/_index.md b/归档事项/_index.md
@@ -1,3 +1,3 @@
 # 完成记录
 
-- [2026-11-08 绿色圆润三状态设计稿](2026-11-08-绿色圆润三状态设计稿.md)：方向认可，完成出口与固定审美规则已确认；已补齐 ui-v5 工具与菜单交互预览，另交付离线独立 HTML；最新恢复三色与直曲箭头精简面板，形态改为样例按钮并默认曲线，未改动原生 App。
+- [2026-11-08 绿色圆润三状态设计稿](2026-11-08-绿色圆润三状态设计稿.md)：方向认可，完成出口与固定审美规则已确认；已补齐 ui-v5 工具与菜单交互预览，另交付离线独立 HTML；最新恢复三色与直曲箭头精简面板，形态改为样例按钮并默认曲线，保存位置已取消三项限制并区分本次/默认位置，未改动原生 App。
